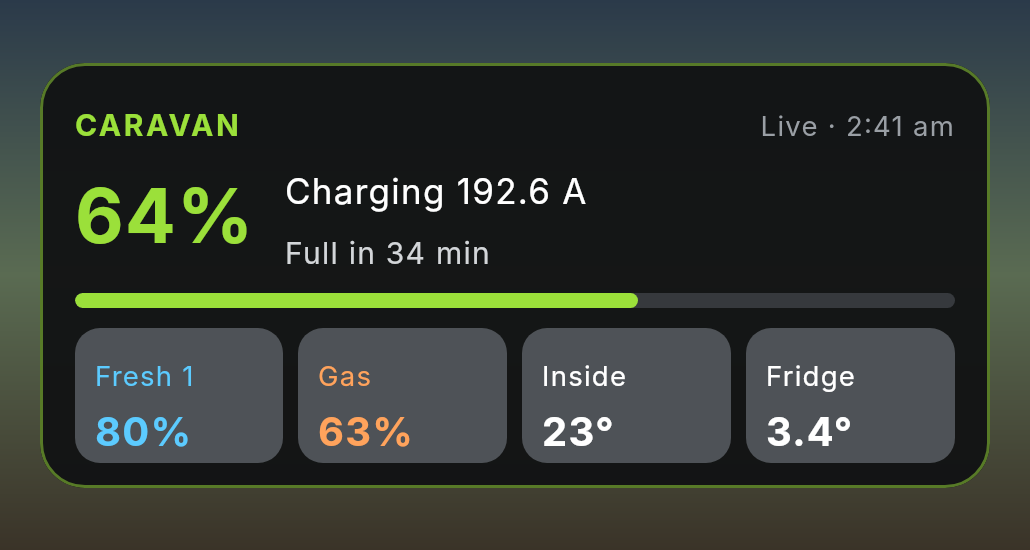
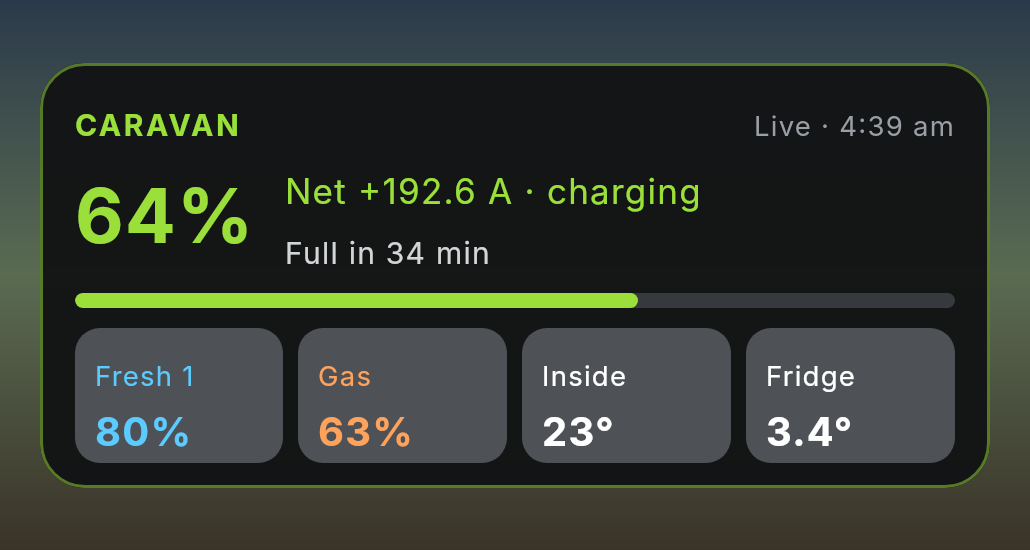
App + widget: show net battery current
Home's battery card gets a Net reading (all charging in minus all loads
out, measured at the battery): green while going up, amber while going
down. The widget line now reads "Net +12.3 A · charging" / "Net -4.2 A
· using" in the same colours, and -- when not live.

Claude-Session: https://claude.ai/code/session_01PBSbXAT7z1EXusjTcGeJoY

Changed region(s): [[0.2796, 0.3091, 0.6835, 0.4018], [0.7146, 0.1855, 0.8699, 0.2473]]

diff --git a/android/app/src/main/java/com/caravan/monitor/WidgetModel.kt b/android/app/src/main/java/com/caravan/monitor/WidgetModel.kt
@@ -28,8 +28,9 @@ data class WidgetView(
     /** 0-100 for the bar; 0 while not live. */
     val socPct: Int = 0,
     val socColor: Long = WidgetColors.MUTED,
-    /** "Charging 12.3 A", "Using 4.2 A", "Idle", "Battery offline". */
+    /** Net battery current: "Net +12.3 A · charging", "Net -4.2 A · using", "Battery offline". */
     val flow: String = "--",
+    val flowColor: Long = WidgetColors.MUTED,
     /** "About 2 days left at this load", "Full in 1 h 20 min" or "". */
     val time: String = "",
     val water: WidgetTile = WidgetTile("Water"),
@@ -64,7 +65,7 @@ data class WidgetView(
 
     fun toJson(): String = JSONObject().apply {
         put("live", live); put("st", status); put("ss", statusShort); put("al", alerts); put("alc", alertColor)
-        put("soc", soc); put("sp", socPct); put("sc", socColor); put("fl", flow); put("tm", time); put("at", dataAt)
+        put("soc", soc); put("sp", socPct); put("sc", socColor); put("fl", flow); put("fc", flowColor); put("tm", time); put("at", dataAt)
         listOf("w" to water, "g" to gas, "i" to inside, "f" to fridge).forEach { (k, t) ->
             put(k, JSONObject().put("l", t.label).put("v", t.value).put("c", t.color))
         }
@@ -81,7 +82,7 @@ data class WidgetView(
                     live = o.optBoolean("live"), status = o.optString("st", d.status), statusShort = o.optString("ss", d.statusShort),
                     alerts = o.optString("al"), alertColor = o.optLong("alc", WidgetColors.WARN),
                     soc = o.optString("soc", "--"), socPct = o.optInt("sp"), socColor = o.optLong("sc", WidgetColors.MUTED),
-                    flow = o.optString("fl", "--"), time = o.optString("tm"),
+                    flow = o.optString("fl", "--"), flowColor = o.optLong("fc", WidgetColors.MUTED), time = o.optString("tm"),
                     water = tile("w", d.water), gas = tile("g", d.gas), inside = tile("i", d.inside), fridge = tile("f", d.fridge),
                     dataAt = o.optLong("at"),
                 )
@@ -164,12 +165,14 @@ object WidgetModel {
             soc = if (b.on) "${Math.round(b.soc)}%" else "--",
             socPct = if (b.on) Math.round(b.soc).toInt().coerceIn(0, 100) else 0,
             socColor = if (b.on) WidgetColors.soc(b.soc) else WidgetColors.MUTED,
+            // Net current: all charging in minus all loads out, as measured at the battery.
             flow = when {
                 !b.on -> "Battery offline"
-                b.a > 0.3 -> "Charging ${one(b.a)} A"
-                b.a < -0.3 -> "Using ${one(-b.a)} A"
-                else -> "Idle"
+                b.a > 0.3 -> "Net +${one(b.a)} A · charging"
+                b.a < -0.3 -> "Net -${one(-b.a)} A · using"
+                else -> "Net ${one(b.a)} A · idle"
             },
+            flowColor = when { !b.on -> WidgetColors.MUTED; b.a > 0.3 -> WidgetColors.LIME; b.a < -0.3 -> WidgetColors.WARN; else -> WidgetColors.TEXT },
             time = if (b.on) t else "",
             water = if (tank >= 0) WidgetTile(names.water.label, "${Math.round(st.tank[tank].pct)}%", WidgetColors.WATER)
                 else WidgetTile(names.water.label, color = WidgetColors.MUTED),

diff --git a/android/app/src/main/java/com/caravan/monitor/ui/HomeContent.kt b/android/app/src/main/java/com/caravan/monitor/ui/HomeContent.kt
@@ -249,7 +249,7 @@ private fun BatteryCard(s: HubState, outlook: Outlook, modifier: Modifier = Modi
             Text("${Math.round(b.soc)}%", fontSize = 34.sp, fontWeight = FontWeight.Bold, color = socColor(b.soc))
             Spacer(Modifier.width(12.dp))
             Column {
-                Text("${fmt2(b.v)} V  ·  ${signed(b.a)} A", style = MaterialTheme.typography.bodyLarge)
+                Text("${fmt2(b.v)} V", style = MaterialTheme.typography.bodyLarge)
                 Hint(outlook.battery ?: ttgText(b.a, b.ttgMin))
             }
         }
@@ -262,6 +262,8 @@ private fun BatteryCard(s: HubState, outlook: Outlook, modifier: Modifier = Modi
             // Total charge coming in (all solar, BMPRO and mains), as on the display.
             MiniStat("Charging", "${fmt1(b.chargeA)} A", Modifier.weight(1f))
             MiniStat("Load", "${fmt1(b.loadA)} A", Modifier.weight(1f))
+            // Net = everything coming in minus everything going out, as measured at the battery.
+            MiniStat("Net", "${signed(b.a)} A", Modifier.weight(1f), netColor(b.a))
         }
     }
 }
@@ -342,6 +344,9 @@ private fun TempsCard(s: HubState, meta: Meta, modifier: Modifier = Modifier) {
 }
 
 /** Label over value, small enough for four across. */
+/** Net battery current: green while it's going up, amber while it's going down. */
+fun netColor(a: Double) = when { a > 0.3 -> Accent.battery; a < -0.3 -> Accent.warn; else -> Surfaces.text }
+
 @Composable
 private fun MiniStat(label: String, value: String, modifier: Modifier, color: androidx.compose.ui.graphics.Color = Surfaces.text) {
     Column(modifier) {

diff --git a/android/app/src/test/java/com/caravan/monitor/WidgetModelTest.kt b/android/app/src/test/java/com/caravan/monitor/WidgetModelTest.kt
@@ -27,7 +27,8 @@ class WidgetModelTest {
         assertTrue(v.live)
         assertEquals("78%", v.soc)
         assertEquals(78, v.socPct)
-        assertEquals("Using 4.2 A", v.flow)
+        assertEquals("Net -4.2 A · using", v.flow)
+        assertEquals(WidgetColors.WARN, v.flowColor)
         assertEquals("About 2 days left at this load", v.time)
         assertEquals(WidgetTile("Fresh 1", "65%", WidgetColors.WATER), v.water)
         assertEquals("42%", v.gas.value)
@@ -41,7 +42,7 @@ class WidgetModelTest {
         val al = listOf(ActiveAlert(1, Severity.WARN, false, 0, 0.0, ""), ActiveAlert(2, Severity.ALARM, false, 0, 0.0, ""),
             ActiveAlert(3, Severity.CRIT, true, 0, 0.0, ""))
         val v = WidgetModel.build(state(a = 12.34, alerts = al), meta, live, Outlook(battery = "Charging"), conn.copy(cloud = true), now)
-        assertEquals("Charging 12.3 A", v.flow)
+        assertEquals("Net +12.3 A · charging", v.flow)
         assertEquals("", v.time)  // "Charging" would only repeat the line above
         assertEquals("2 alerts", v.alerts)
         assertEquals(WidgetColors.ALARM, v.alertColor)  // the acknowledged critical one doesn't count

diff --git a/android/app/src/main/java/com/caravan/monitor/CaravanWidget.kt b/android/app/src/main/java/com/caravan/monitor/CaravanWidget.kt
@@ -79,7 +79,6 @@ class CaravanWidget : AppWidgetProvider() {
 
         private fun full(context: Context, v: WidgetView) = RemoteViews(context.packageName, R.layout.widget_caravan).apply {
             setOnClickPendingIntent(R.id.w_root, openApp(context))
-            val text = if (v.live) WidgetColors.TEXT else WidgetColors.MUTED
             if (v.alerts.isNotEmpty()) {
                 setTextViewText(R.id.w_title, "⚠ " + v.alerts)
                 setTextColor(R.id.w_title, v.alertColor.toInt())
@@ -92,7 +91,7 @@ class CaravanWidget : AppWidgetProvider() {
             setTextViewText(R.id.w_soc, v.soc)
             setTextColor(R.id.w_soc, v.socColor.toInt())
             setTextViewText(R.id.w_flow, v.flow)
-            setTextColor(R.id.w_flow, text.toInt())
+            setTextColor(R.id.w_flow, v.flowColor.toInt())
             setTextViewText(R.id.w_time, v.time)
             setViewVisibility(R.id.w_time, if (v.time.isEmpty()) View.GONE else View.VISIBLE)
             bar(this, v)

diff --git a/android/screenshots/src/main/kotlin/WidgetShots.kt b/android/screenshots/src/main/kotlin/WidgetShots.kt
@@ -67,7 +67,7 @@ fun WidgetFull(v: WidgetView, w: Int = 380, h: Int = 170) {
         Row(Modifier.fillMaxWidth().weight(1f), verticalAlignment = Alignment.CenterVertically) {
             Text(v.soc, color = c(v.socColor), fontSize = 30.sp, fontWeight = FontWeight.Bold)
             Column(Modifier.weight(1f).padding(start = 12.dp)) {
-                Text(v.flow, color = c(if (v.live) WidgetColors.TEXT else WidgetColors.MUTED), fontSize = 14.sp, maxLines = 1, overflow = TextOverflow.Ellipsis)
+                Text(v.flow, color = c(v.flowColor), fontSize = 14.sp, maxLines = 1, overflow = TextOverflow.Ellipsis)
                 if (v.time.isNotEmpty()) Text(v.time, color = Color(0xFFD3D6D9), fontSize = 12.sp, maxLines = 1, overflow = TextOverflow.Ellipsis)
             }
         }
